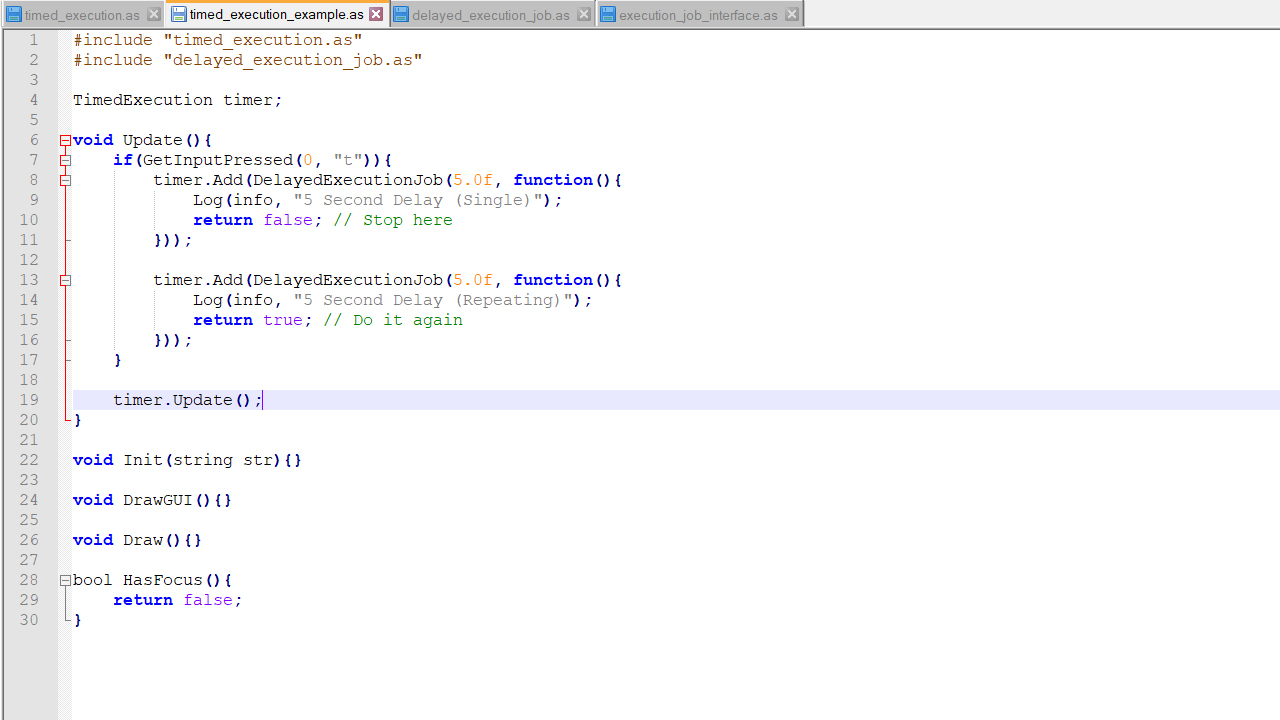
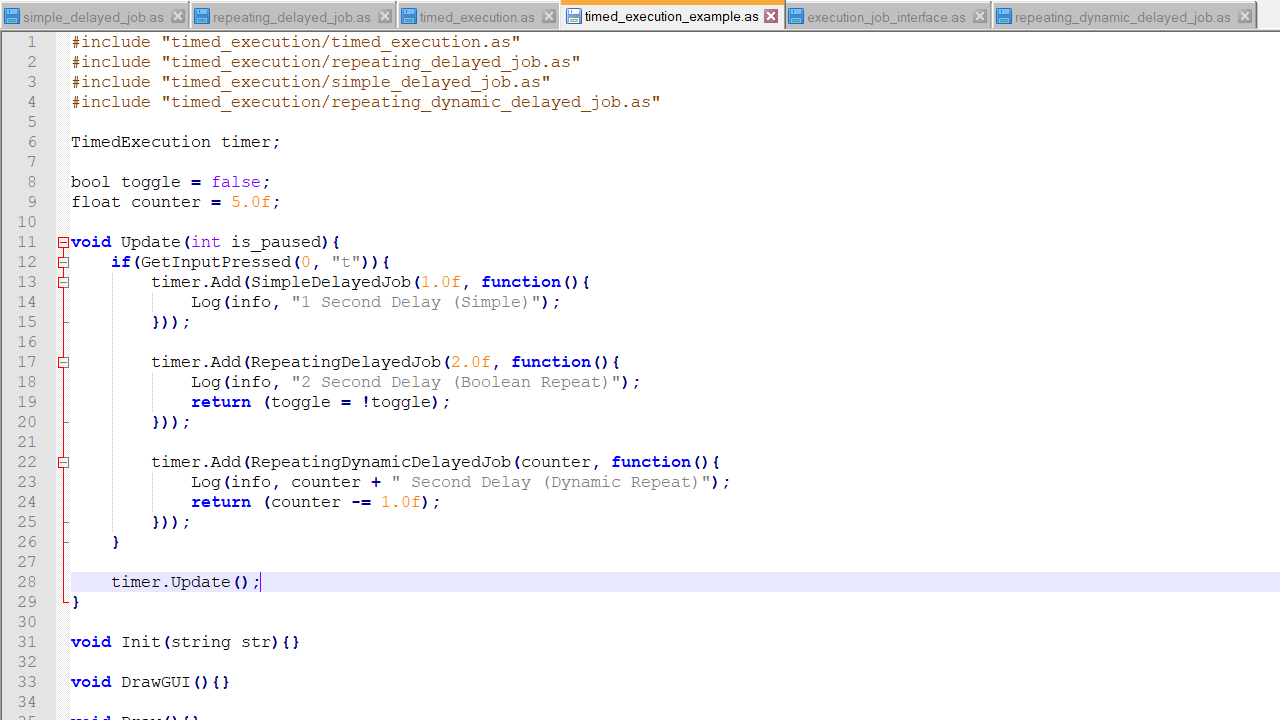
Restructured jobs

Changed region(s): [[0.0, 0.0, 1.0, 1.0], [0.0625, 0.8861, 0.2188, 0.9167], [0.0625, 0.9472, 0.1562, 0.9778]]

diff --git a/README.md b/README.md
@@ -5,21 +5,30 @@ A small library to execute code with delay for [Overgrowth](https://www.wolfire.
 
 ## Example
 
-    #include "timed_execution.as"
-    #include "delayed_execution_job.as"
+    #include "timed_execution/timed_execution.as"
+    #include "timed_execution/simple_delayed_job.as"
+    #include "timed_execution/repeating_delayed_job.as"
+    #include "timed_execution/repeating_dynamic_delayed_job.as"
 
     TimedExecution timer;
 
-    void Update(){
+    bool toggle = false;
+    float counter = 5.0f;
+
+    void Update(int is_paused){
         if(GetInputPressed(0, "t")){
-            timer.Add(DelayedExecutionJob(5.0f, function(){
-                Log(info, "5 Second Delay (Single)");
-                return false; // Stop here
+            timer.Add(SimpleDelayedJob(1.0f, function(){
+                Log(info, "1 Second Delay (Simple)");
             }));
 
-            timer.Add(DelayedExecutionJob(5.0f, function(){
-                Log(info, "5 Second Delay (Repeating)");
-                return true; // Do it again
+            timer.Add(RepeatingDelayedJob(2.0f, function(){
+                Log(info, "2 Second Delay (Boolean Repeat)");
+                return (toggle = !toggle);
+            }));
+
+            timer.Add(RepeatingDynamicDelayedJob(counter, function(){
+                Log(info, counter + " Second Delay (Dynamic Repeat)");
+                return (counter -= 1.0f);
             }));
         }
 
